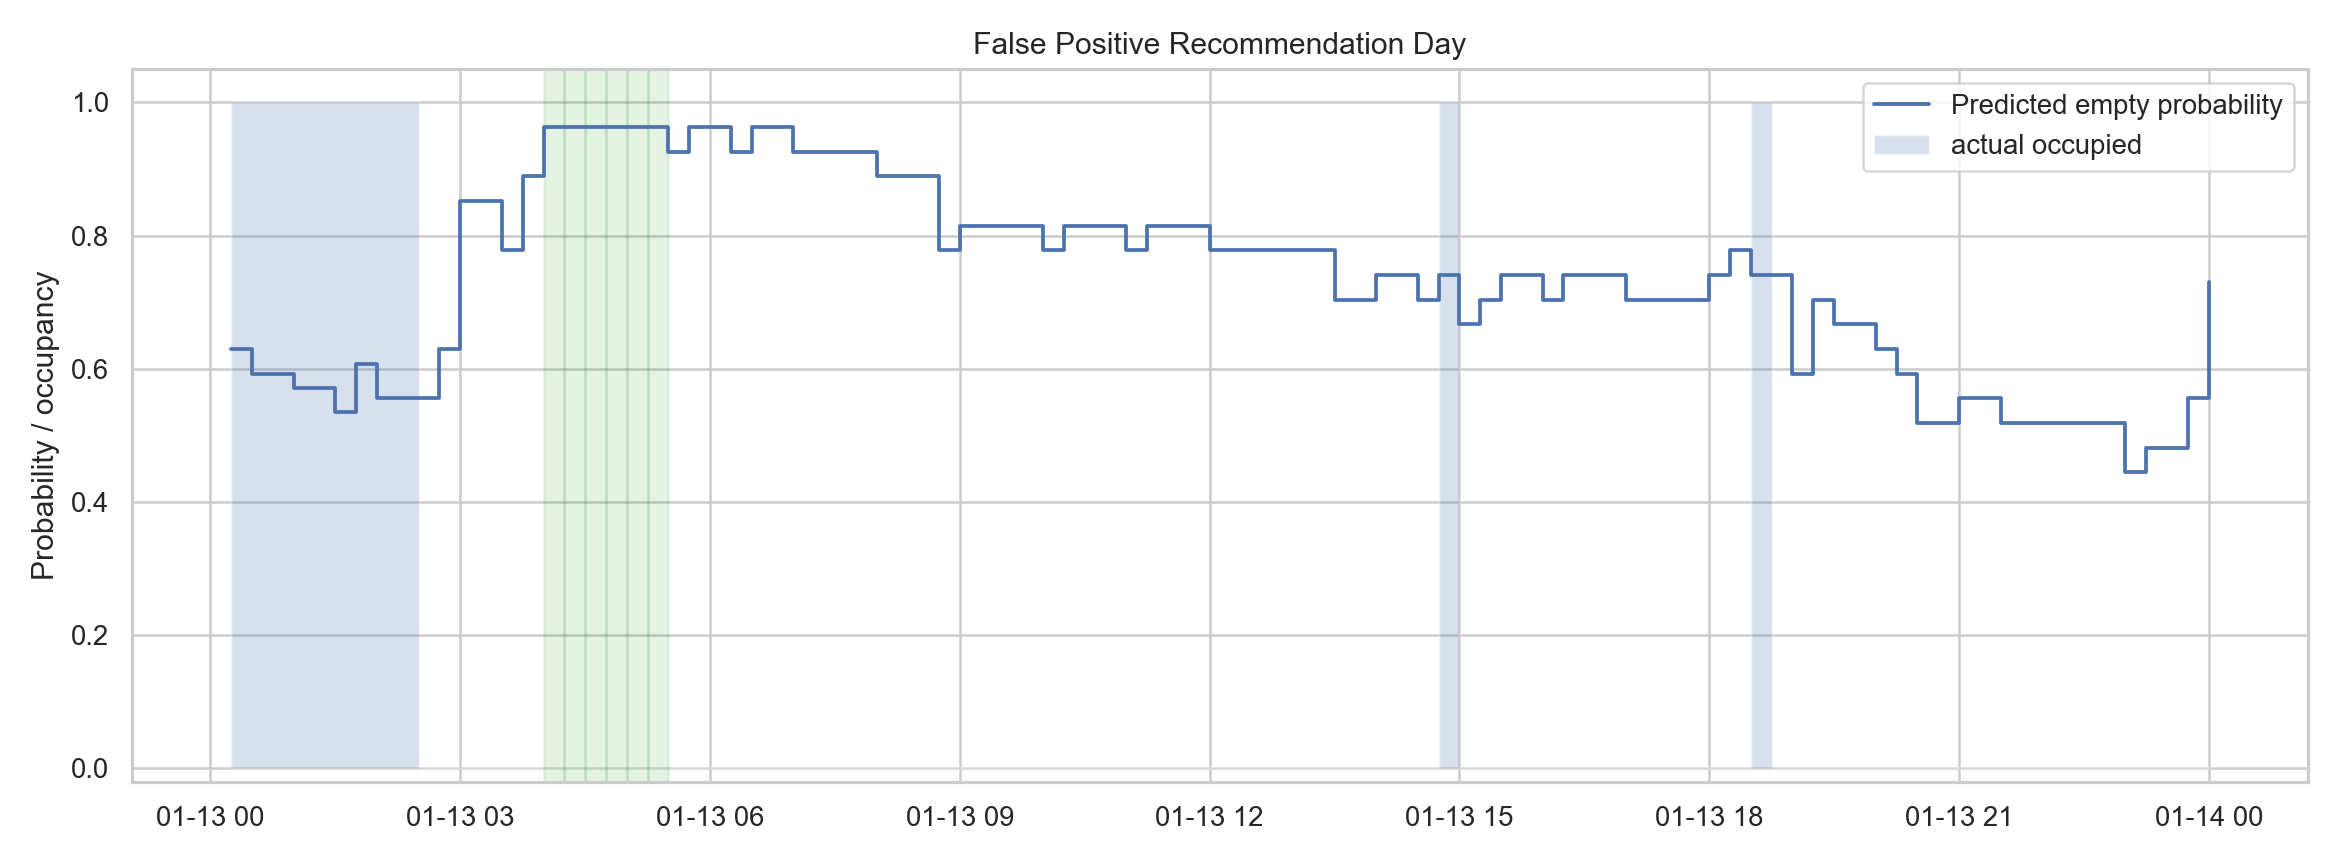
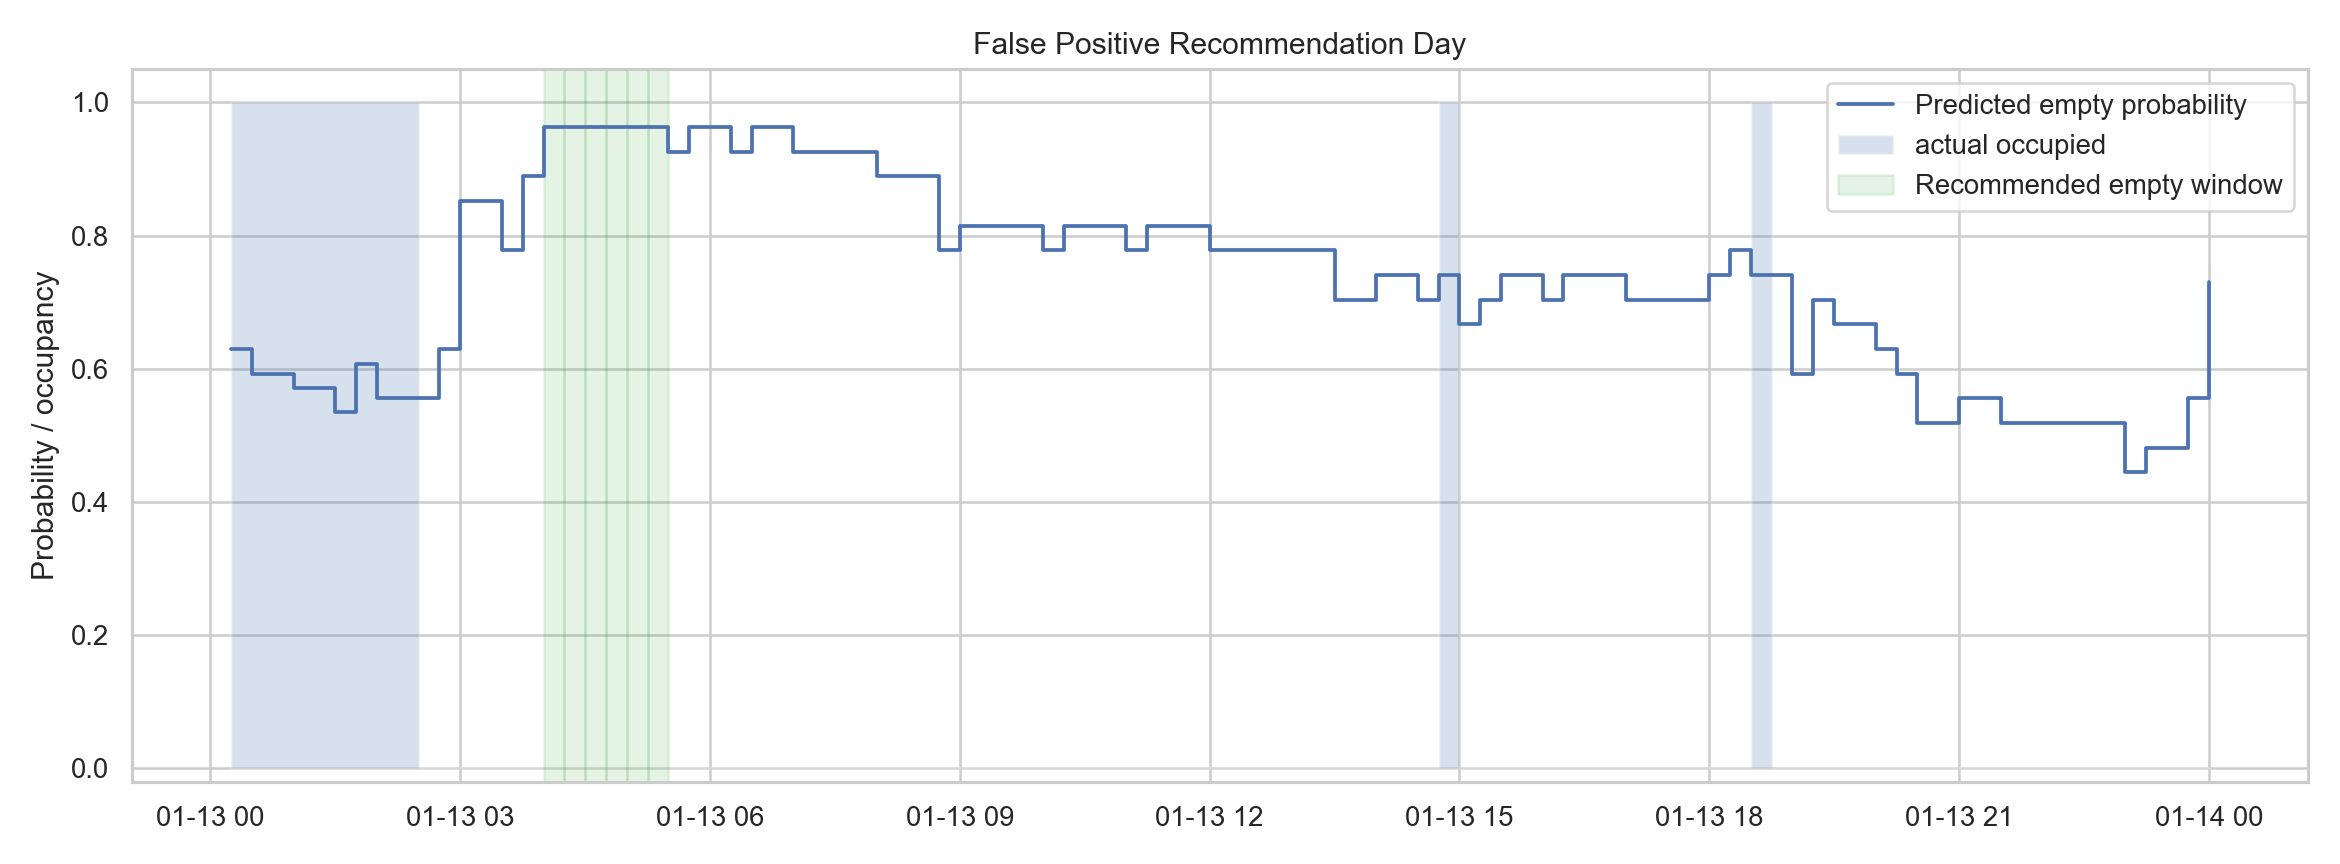
visual fix

Changed region(s): [[0.7799, 0.0938, 0.9983, 0.25]]

diff --git a/src/figure_generation.py b/src/figure_generation.py
@@ -113,12 +113,18 @@ def _plot_horizon_metrics(results_dir: Path, figures_dir: Path) -> list[Path]:
     paths = []
     bucket = _maybe_read_csv(results_dir / "horizon_bucket_metrics_empty_positive.csv")
     if bucket is not None:
-        plt.figure(figsize=(12, 5))
-        sns.barplot(data=bucket, x="horizon_bucket", y="auprc_empty", hue="model")
-        plt.ylim(0, 1)
-        plt.title("Empty-positive AUPRC by forecast horizon bucket")
-        plt.legend(fontsize=8, loc="lower left")
-        paths.append(_save_fig(figures_dir / "horizon_bucket_empty_auprc.png"))
+        fig, ax = plt.subplots(figsize=(12, 5))
+        sns.barplot(data=bucket, x="horizon_bucket", y="auprc_empty", hue="model", ax=ax)
+        ax.set_ylim(0, 1)
+        ax.set_title("Empty-positive AUPRC by forecast horizon bucket")
+        ax.set_ylabel("Empty-class AUPRC")
+        ax.legend(fontsize=8, loc="upper left", bbox_to_anchor=(1.02, 1.0), borderaxespad=0)
+        fig.subplots_adjust(right=0.78)
+        path = figures_dir / "horizon_bucket_empty_auprc.png"
+        path.parent.mkdir(parents=True, exist_ok=True)
+        fig.savefig(path, dpi=180)
+        plt.close(fig)
+        paths.append(path)
     return paths
 
 
@@ -221,9 +227,9 @@ def _plot_policy_outputs(results_dir: Path, figures_dir: Path) -> list[Path]:
     paths = []
     plt.figure(figsize=(12, 5.5))
     sns.barplot(data=policy, x="risk_delta_label", y="safe_shiftable_load_opportunity_kwh", hue="model")
-    plt.title("Constrained threshold policy: maximize safe opportunity under risk delta")
-    plt.xlabel("Allowed occupancy conflict rate delta")
-    plt.ylabel("Safe shiftable-load opportunity (kWh)")
+    plt.title("Safe opportunity from validation-selected policies evaluated on test")
+    plt.xlabel("Allowed validation conflict rate")
+    plt.ylabel("Safe shiftable-load opportunity (kWh, offline estimate)")
     plt.legend(fontsize=8)
     paths.append(_save_fig(figures_dir / "threshold_policy_safe_opportunity.png"))
 
@@ -253,13 +259,19 @@ def _plot_window_and_sensitivity(results_dir: Path, figures_dir: Path) -> list[P
     if window is not None:
         plot = window[np.isclose(window["risk_delta"], 0.10)].copy()
         if len(plot):
-            plt.figure(figsize=(12, 5.5))
-            sns.barplot(data=plot, x="minimum_empty_window_hours", y="window_level_occupancy_conflict_rate", hue="model")
-            plt.title("Continuous empty-window conflict rate by minimum duration, delta=10% policy")
-            plt.xlabel("Minimum empty-window duration (hours)")
-            plt.ylabel("Window-level occupancy conflict rate")
-            plt.legend(fontsize=8)
-            paths.append(_save_fig(figures_dir / "continuous_empty_window_conflict_rate.png"))
+            fig, ax = plt.subplots(figsize=(12, 5.5))
+            sns.barplot(data=plot, x="minimum_empty_window_hours", y="window_level_occupancy_conflict_rate", hue="model", ax=ax)
+            ax.set_title("Continuous empty-window conflict rate by minimum duration, delta=10% policy")
+            ax.set_xlabel("Minimum empty-window duration (hours)")
+            ax.set_ylabel("Window-level occupancy conflict rate")
+            ax.legend(fontsize=8)
+            fig.text(0.02, 0.02, "Missing bars indicate zero conflict, not missing data.", ha="left", va="bottom", fontsize=8)
+            fig.subplots_adjust(bottom=0.16)
+            path = figures_dir / "continuous_empty_window_conflict_rate.png"
+            path.parent.mkdir(parents=True, exist_ok=True)
+            fig.savefig(path, dpi=180)
+            plt.close(fig)
+            paths.append(path)
     stable = _maybe_read_csv(results_dir / "stable_window_metrics.csv")
     if stable is not None:
         plot = stable[np.isclose(stable["risk_delta"], 0.10)].copy() if "risk_delta" in stable else stable
@@ -418,10 +430,18 @@ def _plot_examples(results_dir: Path, figures_dir: Path) -> list[Path]:
         if "actual_occupied" in example:
             ax.fill_between(example["date"], 0, example["actual_occupied"], step="post", alpha=0.22, label="actual occupied")
         if "recommend_empty_stable" in example:
+            recommended_label_added = False
             for i, is_rec in enumerate(example["recommend_empty_stable"].astype(bool)):
                 if is_rec:
                     start = example["date"].iloc[i]
-                    ax.axvspan(start, start + pd.Timedelta(minutes=15), color="tab:green", alpha=0.12)
+                    ax.axvspan(
+                        start,
+                        start + pd.Timedelta(minutes=15),
+                        color="tab:green",
+                        alpha=0.12,
+                        label="Recommended empty window" if not recommended_label_added else None,
+                    )
+                    recommended_label_added = True
         ax.set_ylim(-0.02, 1.05)
         ax.set_title(label.replace("_", " ").title())
         ax.set_ylabel("Probability / occupancy")
